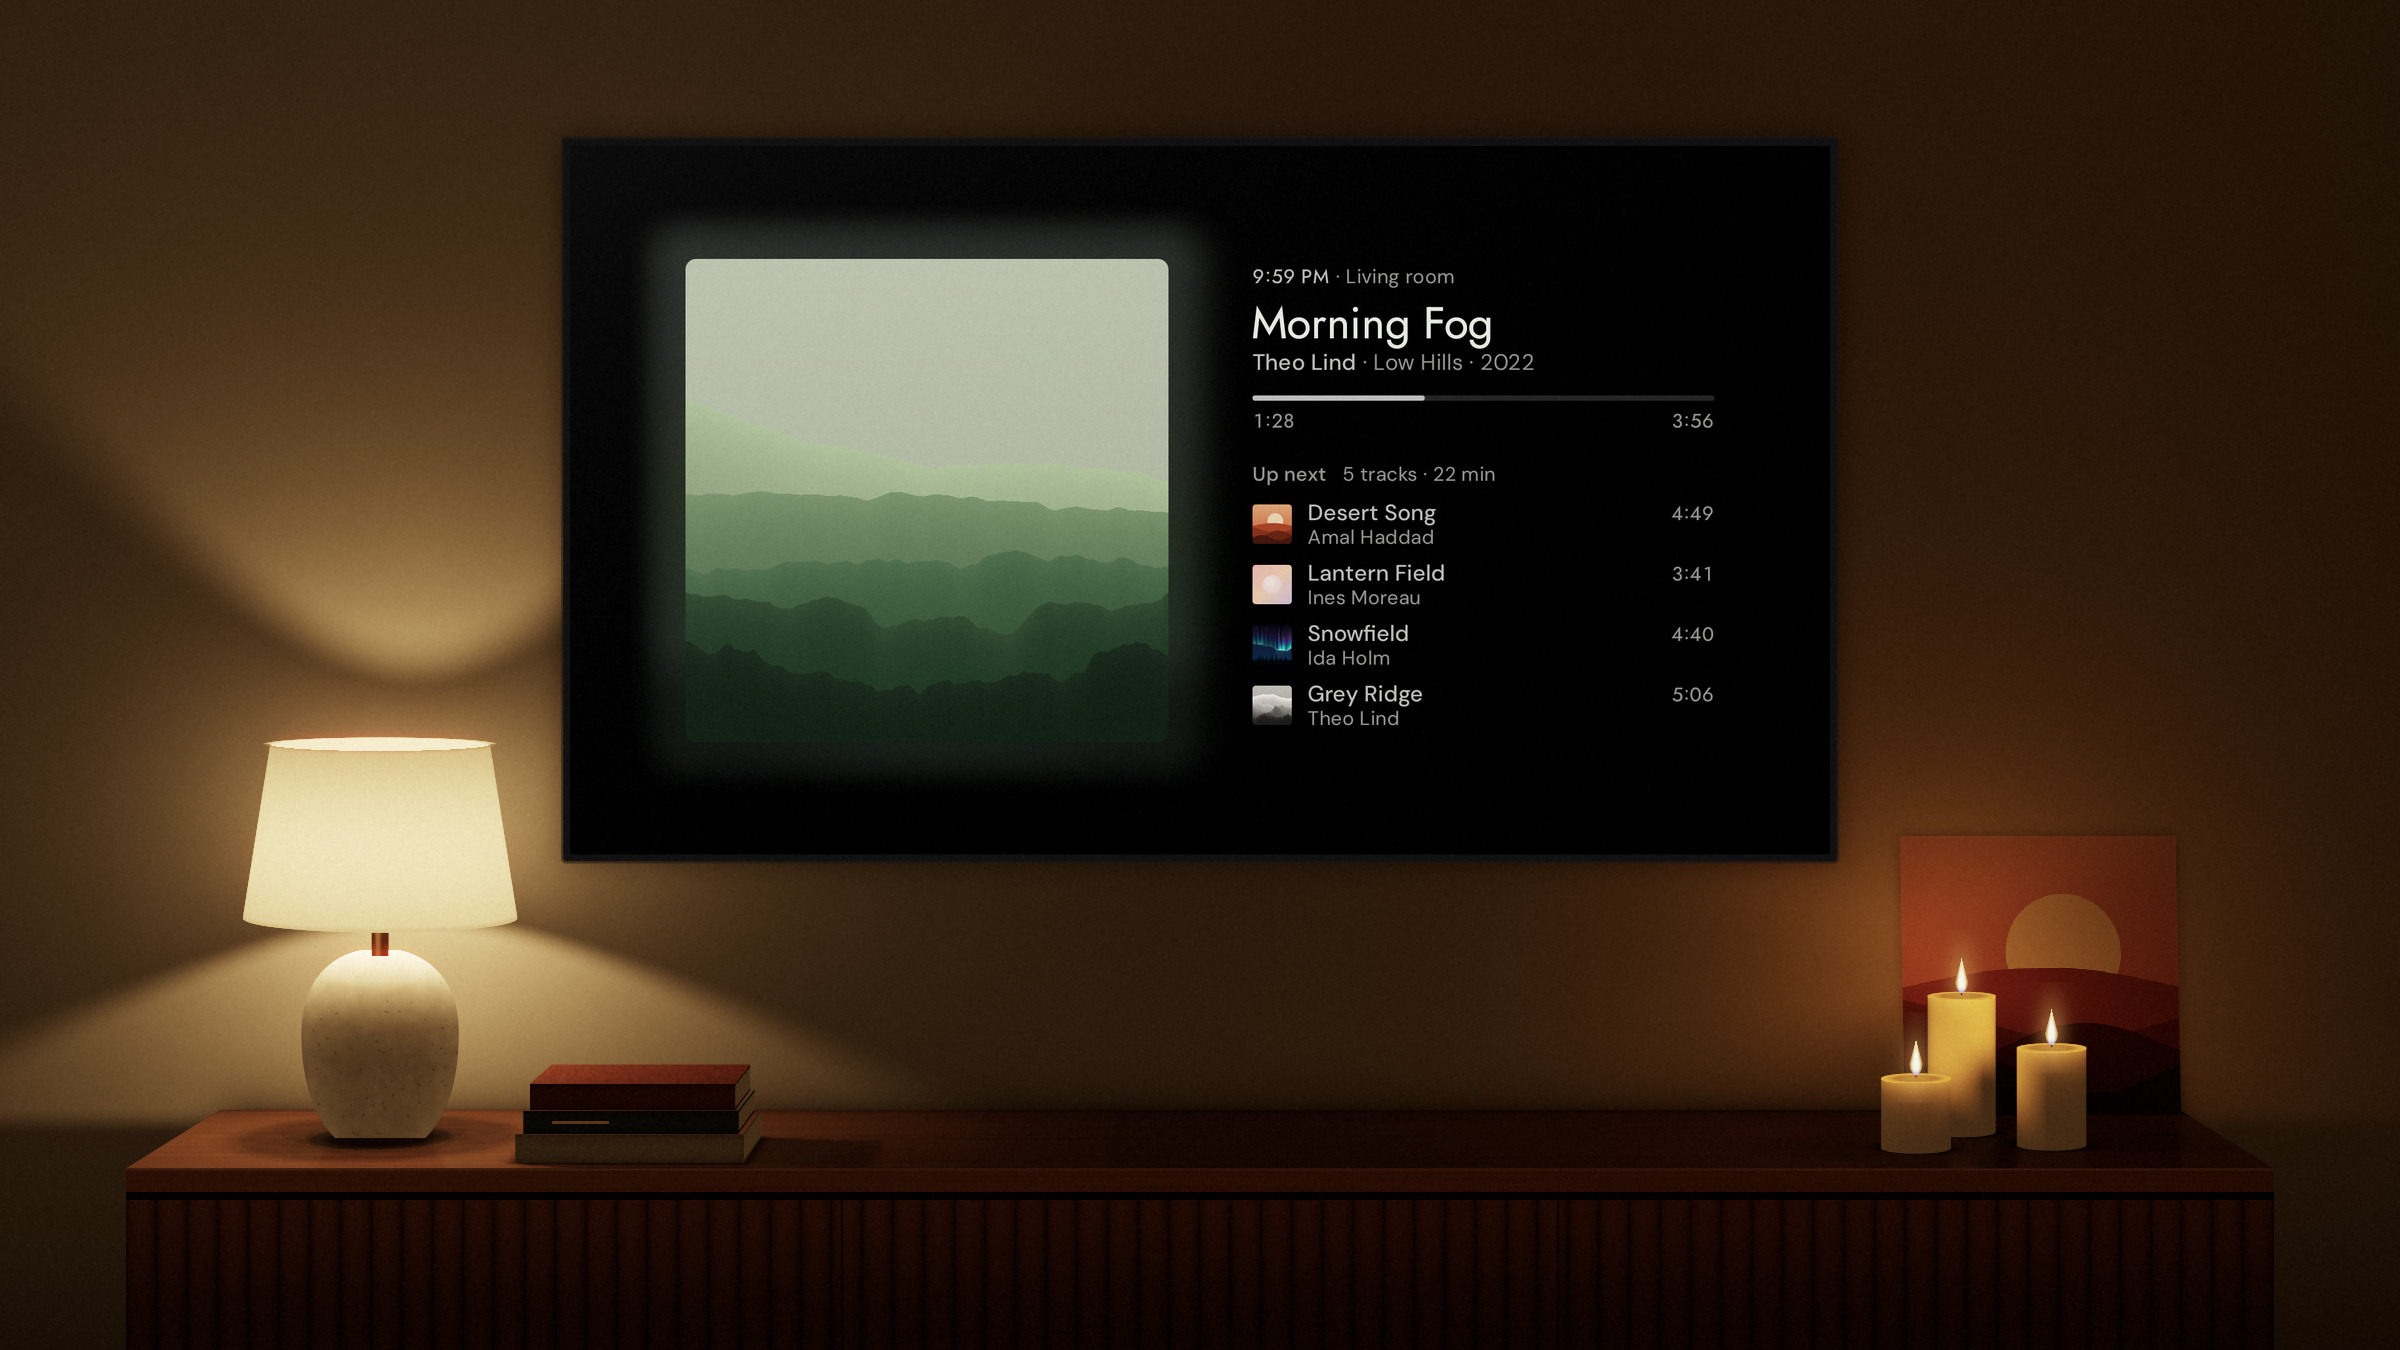
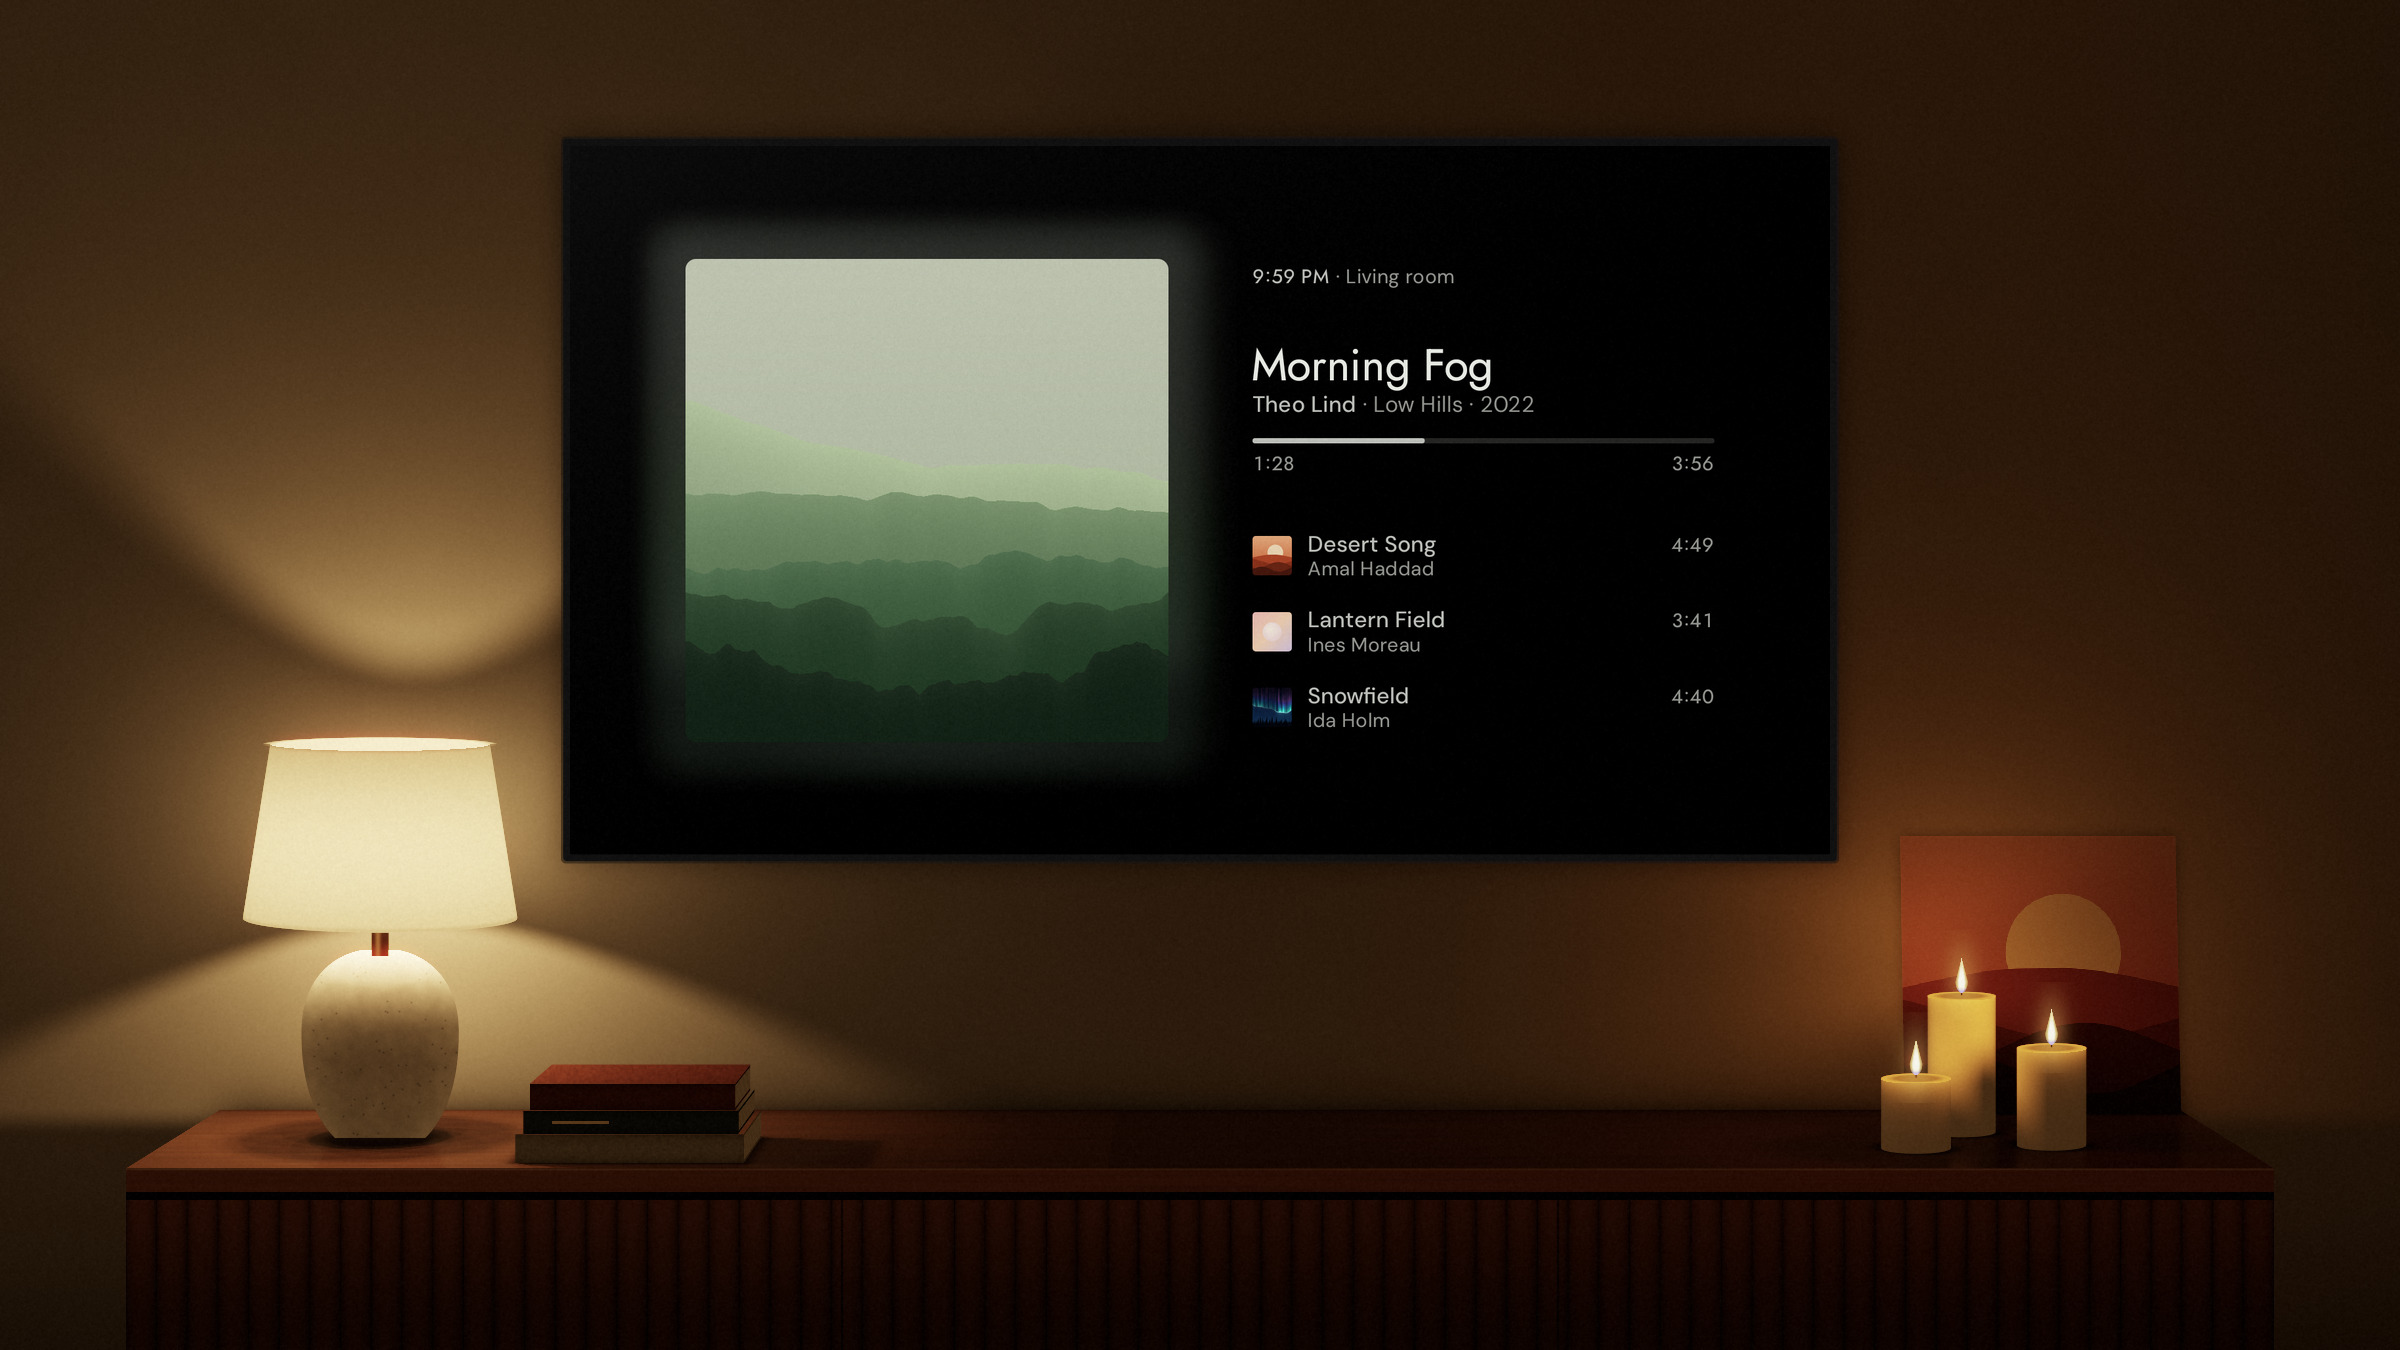
Center the song between the status line and the list
The song in the list hung 18 dp under the status line but stood about 40 dp above the first row. It now stands in the middle, as far from the status line as from the list, with one row fewer where the room asks for it. CenteringTest measures both spaces on the pixels, and the README's list picture shows it.

Changed region(s): [[0.5, 0.2178, 0.7188, 0.56], [0.6875, 0.4978, 0.7188, 0.5289], [0.6875, 0.3733, 0.7188, 0.4044]]

diff --git a/layers/ui/src/commonMain/kotlin/io/github/hazymorning/klangbild/ui/stage/QueueText.kt b/layers/ui/src/commonMain/kotlin/io/github/hazymorning/klangbild/ui/stage/QueueText.kt
@@ -66,12 +66,13 @@ import kotlin.math.roundToInt
 
 /*
  * The queue as a list in the text column (the setting Queue: List), beside the cover, which does
- * not move. The song stands at the top, hung under the status line, its title a step smaller than
- * on its own and its artist, album and year on one line, then its bar as everywhere. The rows
- * follow, every one alike and as tall as the next: its small cover, its title over its artists,
- * its length, all in the same inks. The spaces grow from a row's two lines to two rows to the song
- * and the list, so the bar plainly belongs to the song, and only whole rows show, as far apart as
- * it takes for the last to end on the column's foot, as the cover does ([rowSpacing]). When the
+ * not move. The song stands in the middle between the status line and the list, as far from the
+ * one as from the other, its title a step smaller than on its own and its artist, album and year
+ * on one line, then its bar as everywhere. The rows follow, every one alike and as tall as the
+ * next: its small cover, its title over its artists, its length, all in the same inks. The spaces
+ * grow from a row's two lines to two rows to the song's, so the bar plainly belongs to the song,
+ * and only whole rows show, as far apart as it takes for the last to end on the column's foot, as
+ * the cover does ([rowSpacing]). When the
  * bar comes or goes (a key brings it for a moment), the list makes room for it or closes up as it
  * fades, and a row that no longer fits goes before it would pass the column's foot.
  */
@@ -289,9 +290,9 @@ private fun planQueue(model: StageModel, queue: QueueModel, styles: StageStyles,
         .merge(TextStyle(textDirection = TextDirection.Content, textAlign = TextAlign.Left))
     val meta = metaLine(t, model.chapter ?: t.album, model.year, styles, metaStyle, measurer, colW)
 
-    // From the status line's baseline down, each part's cap height after the one before.
-    val statusBaseline = (layout.statusTop * d).roundToInt() + (with(density) { styles.label.fontSize.toPx() } * Fonts.CAP_HEIGHT).roundToInt()
-    var y = statusBaseline + LABEL_GAP * d
+    // From the song's first cap height down, each part's cap height after the one before; the song
+    // is set in its place once the rows are known.
+    var y = 0f
     var workTop: Float? = null
     val work = t.work
     if (work != null) {
@@ -315,7 +316,8 @@ private fun planQueue(model: StageModel, queue: QueueModel, styles: StageStyles,
 
     // The rows under the song, lower by the room the bar takes: as many whole ones as fit with the
     // room it takes at rest, every one as tall as its small cover, its artists' descenders within
-    // the column.
+    // the column. The song stands in the middle between the status line and the first row.
+    val statusBaseline = (layout.statusTop * d).roundToInt() + (with(density) { styles.label.fontSize.toPx() } * Fonts.CAP_HEIGHT).roundToInt()
     val foot = layout.footerBottom * d
     val coverPx = (layout.rowCover * d).roundToInt()
     val markWidth = coverPx + MARK_GAP * d
@@ -323,8 +325,9 @@ private fun planQueue(model: StageModel, queue: QueueModel, styles: StageStyles,
     val rowArtists = styles.label.merge(TextStyle(textDirection = TextDirection.Ltr, textAlign = TextAlign.Left))
     val titleCap = cap(rowTitle)
     val descent = with(density) { rowArtists.fontSize.toPx() } * Fonts.DESCENT
-    val spacing = rowSpacing(foot - descent - (y + rest), coverPx.toFloat(), d)
-    val rowsTop = y + spacing.gap * PART_SHARE
+    val spacing = rowSpacing(foot - descent - statusBaseline - (y + rest), coverPx.toFloat(), d)
+    val songTop = statusBaseline + spacing.part
+    val rowsTop = songTop + y + spacing.part
     val rows = ArrayList<PlannedRow>(spacing.count)
     var top = rowsTop
     for (row in queue.rows.take(spacing.count)) {
@@ -354,11 +357,11 @@ private fun planQueue(model: StageModel, queue: QueueModel, styles: StageStyles,
         versionStyle = versionStyle,
         meta = meta,
         metaStyle = metaStyle,
-        workTop = workTop,
-        titleTop = titleTop,
-        versionTop = versionTop,
-        metaTop = metaTop,
-        slotTop = slotTop,
+        workTop = workTop?.plus(songTop),
+        titleTop = songTop + titleTop,
+        versionTop = versionTop?.plus(songTop),
+        metaTop = metaTop?.plus(songTop),
+        slotTop = songTop + slotTop,
         rows = rows,
         rowsTop = rowsTop,
         room = room,
@@ -372,20 +375,27 @@ private fun planQueue(model: StageModel, queue: QueueModel, styles: StageStyles,
     )
 }
 
-/** How many rows the list shows, and how far apart (px, from one's artists' baseline to the next one's cap height). */
-private class RowSpacing(val count: Int, val gap: Float)
+/**
+ * How many rows the list shows and how far apart (px, from one's artists' baseline to the next
+ * one's cap height), and the space above and below the song ([part]: from the status line's
+ * baseline to its first cap height, and from its last baseline to the first row's cap height).
+ */
+private class RowSpacing(val count: Int, val gap: Float, val part: Float)
 
 /**
- * The rows for [room] px from the song's last baseline (the bar's room at rest counted) to the
- * last row's baseline, each [row] px from its cap height to its baseline: as many whole rows as fit
- * [ROW_GAP_MIN] apart with the song [PART_SHARE] times as far from the first, and the spaces grown
- * alike until the last row ends where the room does, up to [ROW_GAP_MAX] between rows.
+ * The rows for [room] px from the status line's baseline to the last row's baseline, less the
+ * song's own height (the bar's room at rest counted), each row [row] px from its cap height to its
+ * baseline: as many whole rows as fit [ROW_GAP_MIN] apart with the song [PART_SHARE] times as far
+ * from the status line and from the first row, the spaces grown alike up to [ROW_GAP_MAX] between
+ * rows, and what is left shared above and below the song. The count follows the room, not the
+ * songs to come, so the song keeps its place as the queue runs short.
  */
 private fun rowSpacing(room: Float, row: Float, density: Float): RowSpacing {
     val min = ROW_GAP_MIN * density
-    val count = floor((room + min - PART_SHARE * min) / (row + min)).toInt().coerceAtLeast(0)
-    if (count == 0) return RowSpacing(0, min)
-    return RowSpacing(count, ((room - count * row) / (count - 1 + PART_SHARE)).coerceIn(min, ROW_GAP_MAX * density))
+    val count = floor((room + min - 2 * PART_SHARE * min) / (row + min)).toInt().coerceAtLeast(0)
+    if (count == 0) return RowSpacing(0, min, room / 2)
+    val gap = ((room - count * row) / (count - 1 + 2 * PART_SHARE)).coerceIn(min, ROW_GAP_MAX * density)
+    return RowSpacing(count, gap, (room - count * row - (count - 1) * gap) / 2)
 }
 
 /**
@@ -683,9 +693,6 @@ private val queueTitleLadder = listOf(
     TitleStep(24f, 2, 430, 1.16f, 0f),
 )
 
-/** From the status line's baseline to the song's first cap height (dp). */
-private const val LABEL_GAP = 18f
-
 /** From the title's baseline to the cap height of the artist, album and year (dp). */
 private const val META_GAP = 12f
 
@@ -702,9 +709,9 @@ private const val ROW_GAP_MIN = 20f
 private const val ROW_GAP_MAX = 30f
 
 /**
- * From the song's last baseline (its bar's times) to the first row, as a share of the space
- * between two rows: the widest space in the column, well over the one above the bar, so the bar
- * belongs to the song.
+ * Above the song (from the status line) and below it (from its bar's times to the first row), as
+ * a share of the space between two rows: the widest spaces in the column, well over the one above
+ * the bar, so the bar belongs to the song.
  */
 private const val PART_SHARE = 1.8f
 

diff --git a/layers/ui/src/androidHostTest/kotlin/io/github/hazymorning/klangbild/ui/CenteringTest.kt b/layers/ui/src/androidHostTest/kotlin/io/github/hazymorning/klangbild/ui/CenteringTest.kt
@@ -128,7 +128,7 @@ class CenteringTest {
     }
 
     @Test
-    fun theQueuesSpacesGrowFromARowToTheListAndTheListEndsWithTheCover() {
+    fun theQueuesSongStandsInTheMiddleItsSpacesGrowAndTheListEndsWithTheCover() {
         // Rows in Latin letters, so that each of a row's two lines has ink of its own right of the small covers.
         val coming = Catalog.cairoNights + Catalog.northernHours
         for (t in listOf(Fixtures.texts, TestTexts.english())) for (bar in listOf(true, false)) {
@@ -149,7 +149,13 @@ class CenteringTest {
             val meta = lines[2]
             val last = lines[song - 1]
             val rows = lines.drop(song).chunked(2)
-            assertThat(rows.size, name = "$case: rows").isEqualTo(if (bar) 4 else 5)
+            assertThat(rows.size, name = "$case: rows").isEqualTo(if (bar) 3 else 4)
+            // The song in the middle between the status line and the list: from the status line's
+            // baseline to the title's top as far as from the song's last line to the first row (with
+            // the bar its times, figures whose ink ends on the baseline: the bar of a four ends above).
+            val above = title.inkTop - status.baseline
+            val below = rows[0][0].inkTop - (if (bar) last.inkBottom else last.baseline)
+            assertThat(abs(above - below), name = "$case: above the song against below it").isLessThanOrEqualTo(3)
             // The spaces grow: within a row, between two rows, from the song to the list (more
             // than above the bar, which belongs to the song).
             val within = rows.maxOf { (words, artists) -> artists.inkTop - words.baseline }

diff --git a/AGENTS.md b/AGENTS.md
@@ -215,9 +215,9 @@ are in the code, and the tests named here check them.
 - The layout follows `StageGrid` and is centered on what's actually drawn, in both languages
   (`CenteringTest`). The whole screen drifts by up to 6 dp to protect the OLED.
 - Spaces grow with what they separate: the lines of one entry stand closest, then two entries,
-  then what frames them. In the queue's list the song stands furthest from the rows, and the last
-  row ends where the cover does (`CenteringTest`). Judge spacing by measuring the rendered
-  pictures, not by eye.
+  then what frames them. In the queue's list the song stands in the middle between the status line
+  and the rows, and the last row ends where the cover does (`CenteringTest`). Judge spacing by
+  measuring every gap in the rendered pictures, above and below, not by eye.
 - There are two typefaces. Jost is for titles of 24 sp and up, the clock, headings and all numbers
   (`titleType()`), and DM Sans is for the smaller text (`textType()`). Text is in sentence case,
   with no letter spacing or italics, and never in the system font. Outside the debug overlay,
